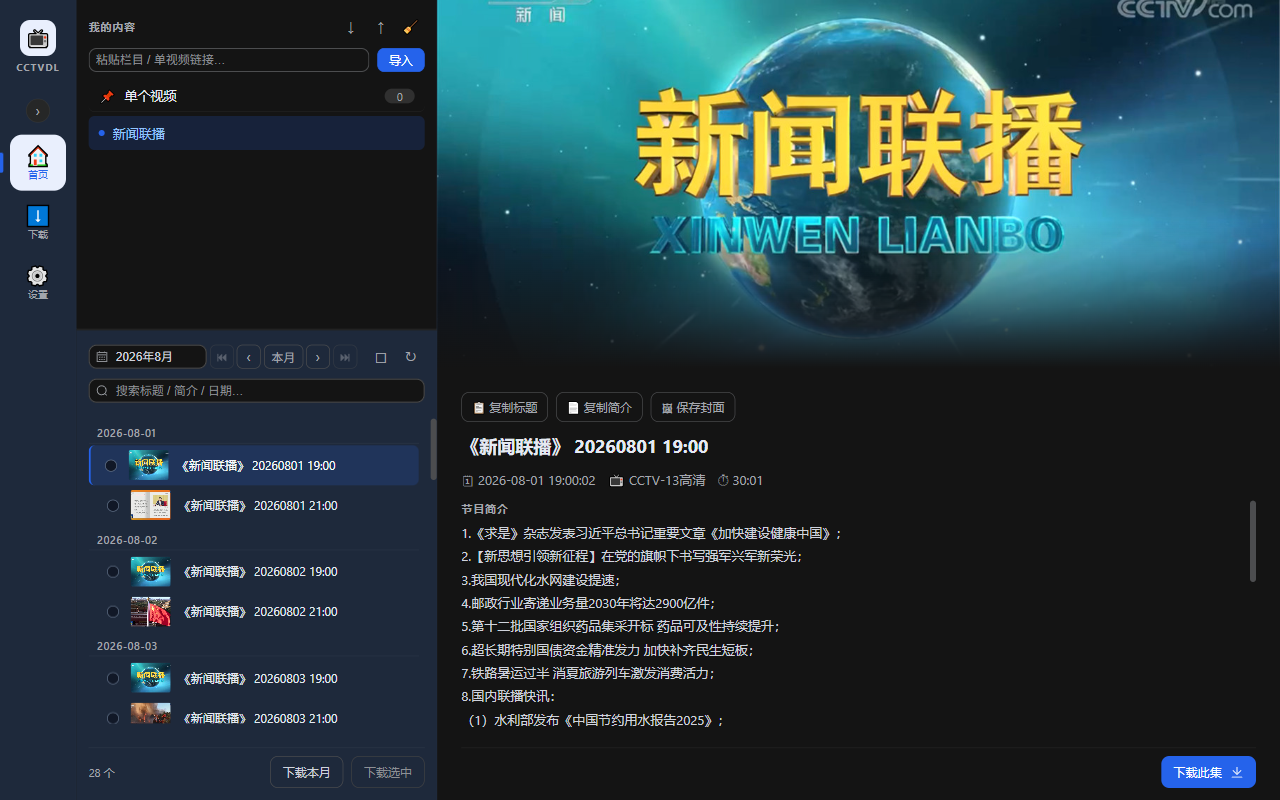
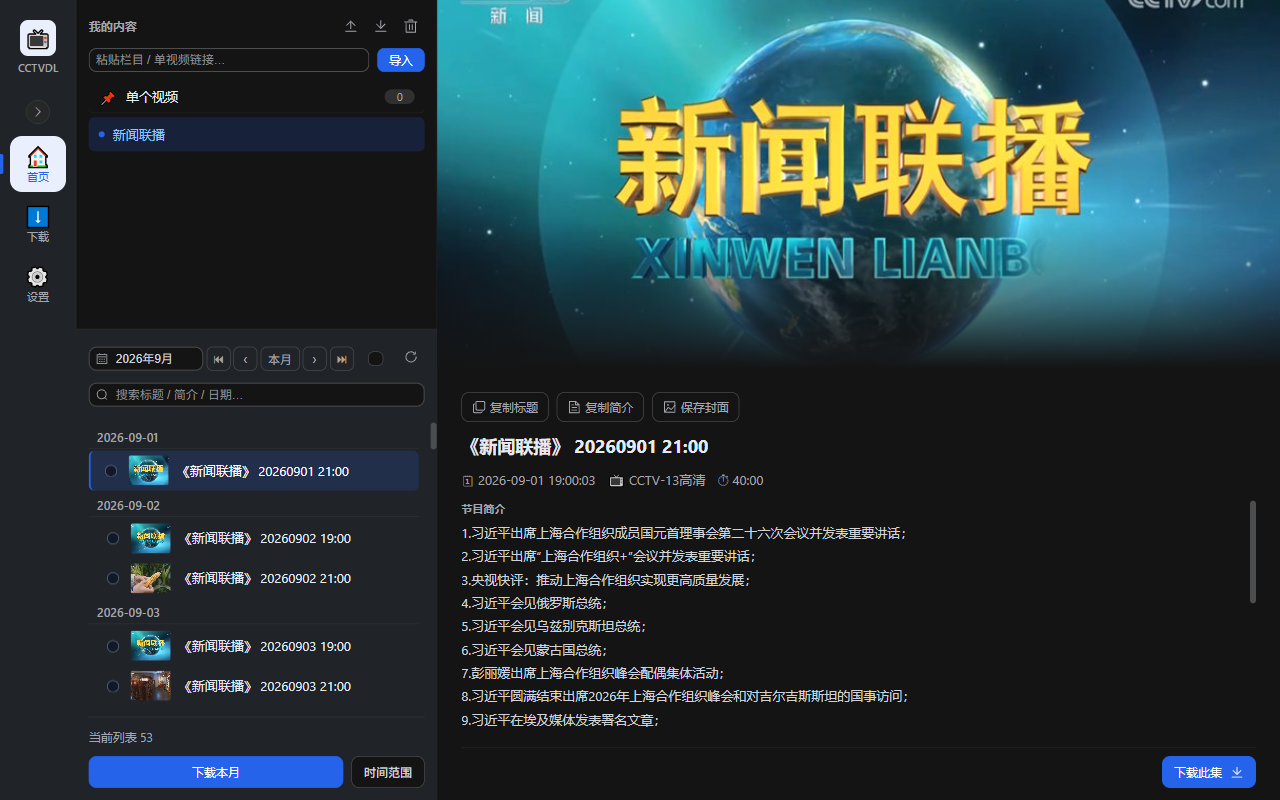
docs: 更新 0.6.5 使用说明与界面配图

diff --git a/docs/USAGE.md b/docs/USAGE.md
@@ -10,7 +10,7 @@
 
 把浏览器地址栏中的完整链接粘贴到首页输入框，按 Enter 或点击「导入」；也可以直接把链接拖到窗口中。
 
-- **栏目**：例如新闻联播。按月份浏览，可下载本月全部内容或跨月份挑选。央视中途更换过栏目 ID 的长期节目会合并到同一个栏目。
+- **栏目**：例如新闻联播。按月份浏览，可下载本月、指定起止月份批量下载，或跨月份挑选。央视中途更换过栏目 ID 的长期节目会合并到同一个栏目。
 - **节目集**：电视剧、纪录片、4K 节目等。粘贴节目首页或任意一集，都会显示整部节目的选集。
 - **具体视频页**：程序先核对它是否属于有效栏目或节目集；能够确认时打开所属节目，电影、新闻文章视频及无法确认归属的独立片段才进入「📌 单个视频」集合。
 - **央视新闻移动端视频**：支持央视新闻 App 或移动端分享出的可播放视频页；页面包含多条视频时会一并加入「单个视频」。
@@ -32,10 +32,21 @@
 部分历史节目在播出期间更换过央视栏目 ID。遇到这类内容时，程序会使用稳定的节目归档作为数据源：无论粘贴节目概览、变更前的一期还是变更后的一期，都会进入同一个按月栏目，新旧内容不会被拆成两项。
 
 - 「下载本月」会下载当前栏目、当前月份已加载的全部视频，不受搜索条件或其他月份已选项影响。开启片段开关后，该月列表中的片段也在此范围内。
-- 勾选框用于挑选当前列表中的视频；已勾选内容在切换月份、栏目或修改搜索条件后仍会保留，可统一点击「下载选中」。
+- 勾选框用于挑选当前列表中的视频；已勾选内容在切换月份、栏目、单个视频集合或修改搜索条件后仍会保留，可统一点击「下载选中」。底部同时显示已选总数和当前列表已选数。
+- 未勾选时，底部可直接选择「时间范围」；已有勾选时，从「更多下载方式」菜单进入，不会清掉现有选择。
 - 点击刷新按钮或按 `F5` 会重新读取当前列表；部分节目归档使用短期缓存，手动刷新会跳过该缓存。
 - 若出现「视频列表加载失败」，点击列表中的「重试」；这与「该月份暂无视频」是两种不同状态。
 - 行尾的 ✓ 表示该视频已下载。
+
+### 跨月份整批下载
+
+在按月浏览的栏目中打开「时间范围」，选择起始和结束月份；「最早至最新」只会填入该栏目的首尾月份，不会立即扫描或下载。节目集不提供此入口。
+
+点击「扫描」后，应用逐月读取列表并显示进度和发现的视频数。可以取消扫描；若某些月份加载失败，先点「重试失败月份」，不能把失败月份当作空月直接入队。扫描完成后核对找到、已下载和待加入的视频数，以及清晰度、预计大小、磁盘剩余空间和保存位置；展开「查看扫描到的视频」可检查列表，再点「加入队列」。大量任务会再次要求确认。已入队的任务照常支持队列管理和断点续传。
+
+| 选择时间范围 | 核对扫描结果 |
+|:---:|:---:|
+| ![设置栏目起止月份](assets/month-range-picker.png) | ![核对时间范围扫描结果](assets/month-range-review.png) |
 
 ### 节目集：从节目首页或任意一集进入
 
@@ -75,7 +86,7 @@
 - 「清空已选」会取消全部勾选。
 - `Ctrl+A`（macOS `⌘A`）可全选或取消全选**当前列表的筛选结果**，不会改变其他月份或栏目的已选项。
 
-切换到「单个视频」集合会清空此前栏目、节目集中的勾选，避免把不同来源的临时选择混在一起。
+「查看已选」按来源和月份整理清单；切换到「单个视频」后仍可继续勾选，与此前的栏目、节目集视频一起下载。下载前的已选清单只在当前应用会话中保留；已加入队列的任务则会在重启后恢复。
 
 ## 3. 确认并开始下载
 
@@ -83,13 +94,13 @@
 
 在「设置」页先确认：保存目录、视频清晰度、同时下载视频数。通常保留默认值就可以。
 
-1. 勾选视频后点击「下载选中」，或在预览区点击「下载此集 / 下载此视频」。普通栏目也可直接点「下载本月」。
-2. 单个和批量下载都会先显示确认框：视频数、清晰度、预计大小、估算范围、磁盘剩余空间和保存位置。
+1. 勾选视频后点击「下载选中」，或在预览区点击「下载此集 / 下载此视频」。按月栏目还可点「下载本月」或进入「时间范围」。
+2. 下载前会显示视频数、清晰度、预计大小、磁盘剩余空间和保存位置；已选批量下载还会列出来源、月份及看点/片段数量，视频清单可展开核对。
 3. 核对后点击「加入队列」；选择「返回检查」不会开始下载。
 
-![下载前确认：预计大小、估算范围与磁盘空间](assets/download-confirm.png)
+![下载前确认：预计大小与磁盘空间](assets/download-confirm.png)
 
-大小和空间会自动换算为 B、KB、MB、GB 等单位。若只估算出部分视频，确认框会显示「估算范围 X / Y 个」；预计大小只是**已估算部分**，不是整批的上限。大小未知或无法检查磁盘空间时仍可继续；若已估算部分超过剩余空间，会提醒用户检查保存位置，但不会擅自取消下载。最终文件大小可能因实际片源和合并结果而不同。
+大小和空间会自动换算为 B、KB、MB、GB 等单位。预计大小由视频流信息估算，时间范围较大时会结合抽样推算，并非最终文件大小。如果仍有视频无法估算，界面会显示「已知部分」并提示实际占用可能更高；无法检查磁盘空间时也会如实显示。空间可能不足会提醒检查保存位置，但不会擅自取消下载。
 
 选择清晰度后，程序会优先下载该档位可用的最佳画质。各档位对应的分辨率和最高码率如下：
 

diff --git a/README.md b/README.md
@@ -18,7 +18,7 @@
 
 **📺 支持的链接**
 
-- **栏目链接** — 按月份浏览和搜索节目；可定位最早或最新月份、下载本月，也可跨月份和栏目挑选视频
+- **栏目链接** — 按月份浏览和搜索节目；可下载本月、按起止月份批量下载，或跨月份和栏目挑选视频
 - **历史栏目归档** — 支持央视中途更换栏目 ID 的长期节目；粘贴节目概览或新旧任意一期，都会合并为同一个按月栏目
 - **节目集链接** — 电视剧、纪录片和 4K 节目可从节目首页或任意一集导入；直接查看全部选集，并可切换从早到晚或从晚到早排列
 - **具体视频页** — 能确认所属栏目或节目集时进入该节目；电影、新闻文章视频等独立内容进入「单个视频」集合
@@ -36,8 +36,8 @@
 
 - **画质选择** — 可自动选择片源的最高可用画质，也可设置流畅至蓝光的带宽档位；缺少所选档位时会回退到可用视频流，CCTV-16 优先尝试可用的明文 HLS
 - **并行与续传** — 最多同时下载 3 个视频；失败、取消或意外退出后，未完成部分可继续下载
-- **下载前确认** — 单个和批量下载均显示清晰度、已估算的大小与覆盖数、磁盘剩余空间和保存位置；信息不足或空间可能不够时明确提示
-- **队列管理** — 跨月、跨栏目勾选后可统一入队；实时查看进度、调整顺序、取消或重试
+- **下载前确认** — 单个和批量下载均显示清晰度、预计大小、磁盘剩余空间和保存位置；无法估算的部分和空间不足风险会明确提示
+- **队列管理** — 跨月、跨栏目及单个视频的已选内容可统一入队；实时查看进度、调整顺序、取消或重试
 - **下载历史** — 自动记录已下载的视频，避免重复下载；支持搜索、重新下载、定位文件和单条删除
 
 **🎨 界面与提醒**
@@ -52,6 +52,8 @@
 | <img src="docs/assets/album.png" width="400" alt="节目集浏览"> | <img src="docs/assets/single-video.png" width="400" alt="单个视频下载"> |
 | **栏目片段** | **下载前确认** |
 | <img src="docs/assets/column-fragments.png" width="400" alt="栏目片段列表与类型标签"> | <img src="docs/assets/download-confirm.png" width="400" alt="下载前的大小估算与磁盘提示"> |
+| **选择时间范围** | **核对扫描结果** |
+| <img src="docs/assets/month-range-picker.png" width="400" alt="栏目起止月份与最早至最新快捷入口"> | <img src="docs/assets/month-range-review.png" width="400" alt="时间范围扫描结果与预计大小"> |
 | **封面大图预览** | **已选内容** |
 | <img src="docs/assets/lightbox.png" width="400" alt="封面大图预览"> | <img src="docs/assets/selected-videos.png" width="400" alt="已选内容"> |
 | **下载管理** | **任务排序** |
@@ -85,7 +87,7 @@
 
 1. 复制支持的央视页面链接，粘贴到首页导入栏，或拖放到窗口。
 2. 打开导入的栏目、节目集或「单个视频」，找到要下载的内容。
-3. 勾选后点「下载选中」，也可下载当前月份或预览中的单条视频；核对下载确认信息后加入队列。
+3. 勾选后点「下载选中」，也可下载当前月份、按时间范围下载栏目，或下载预览中的单条视频；核对信息后加入队列。
 4. 在下载页查看进度、调整顺序、取消或重试。
 
 完整图文步骤、设置说明与快捷键见 [使用指南](docs/USAGE.md)。
